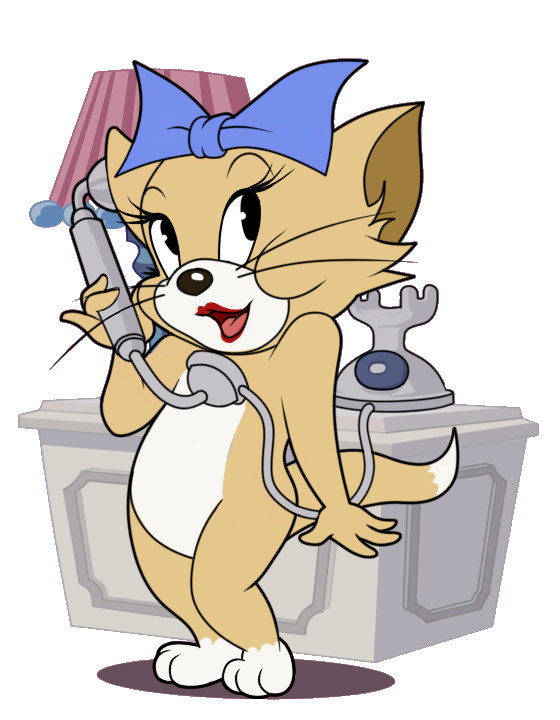
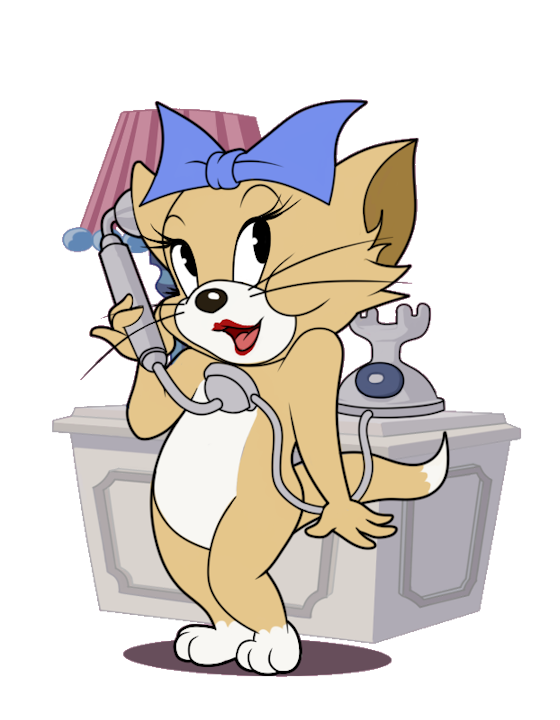
fix(GameImage): adjust image sizes

diff --git a/src/components/ui/GameImage.tsx b/src/components/ui/GameImage.tsx
@@ -39,7 +39,7 @@ export default function GameImage({
 
   // Detect if this is a cat character image for larger display
   const isCatCharacter = src.includes('/images/cats/');
-  const maxHeight = isCatCharacter ? '90%' : '80%';
+  const maxHeight = isCatCharacter ? '100%' : '85%';
 
   // Optimize sizes attribute based on image size and usage
   const optimizedSizes =
@@ -47,7 +47,7 @@ export default function GameImage({
     (() => {
       switch (size) {
         case 'CARD_DETAILS':
-          return '(max-width: 768px) 100vw, (max-width: 1200px) 50vw, 33vw';
+          return '(max-width: 768px) 200px, 320px';
         case 'CHARACTER_CARD':
           return '210px';
         case 'KNOWLEDGECARD_CARD':
